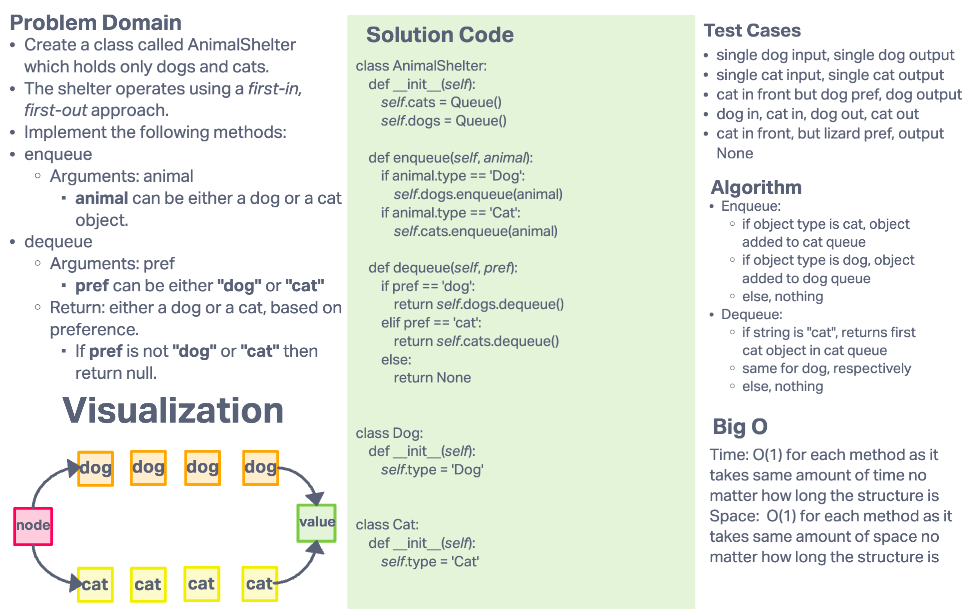
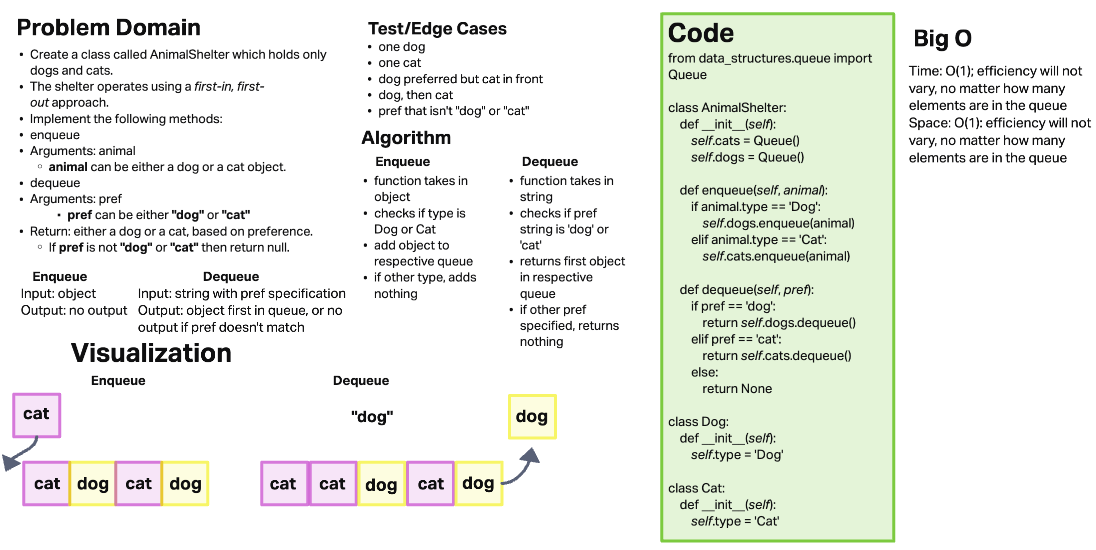
README updates

diff --git a/python/docs/stack_queue_animal_shelter/README.md b/python/docs/stack_queue_animal_shelter/README.md
@@ -23,9 +23,21 @@ Implements the following methods:
 
 ### Approach
 
-Approach was testing first to support debugging of methods.
+#### Enqueue method
+
+- function takes in object
+- checks if type is Dog or Cat
+- add object to respective queue
+- if other type, adds nothing
+
+#### Dequeue method
+
+- function takes in string
+- checks if pref string is 'dog' or 'cat'
+- returns first object in respective queue
+- if other pref specified, returns nothing
 
 ### Efficiency
 
-- Big O Time: O(1); same amount of time will be used for adding and removing, no matter the length of the data structure
-- Big O Space: O(1); same amount of space will be used for adding and removing, no matter the length of the data structure
+- Time: O(1); efficiency will not vary, no matter how many elements are in the queue
+- Space: O(1): efficiency will not vary, no matter how many elements are in the queue

diff --git a/python/README.md b/python/README.md
@@ -12,6 +12,8 @@
 - [Code Challenge 7: Linked List Kth](./docs/linked_list_kth/README.md)
 - [Code Challenge 8: Linked List Zip](./docs/linked_list_zip/README.md)
 - [Code Challenge 10: Stack and Queue](./docs/stack_and_queue/README.md)
+- [Code Challenge 11: Stack Queue Pseudo](./docs/stack_queue_pseudo/README.md)
+- [Code Challenge 12: Stack Queue Animal Shelter](./docs/stack_queue_animal_shelter/README.md)
 - [Code Challenge 16: Tree Max](./docs/tree_max/README.md)
 - [Code Challenge 17: Tree Breadth First](./docs/tree_breadth_first/README.md)
 
